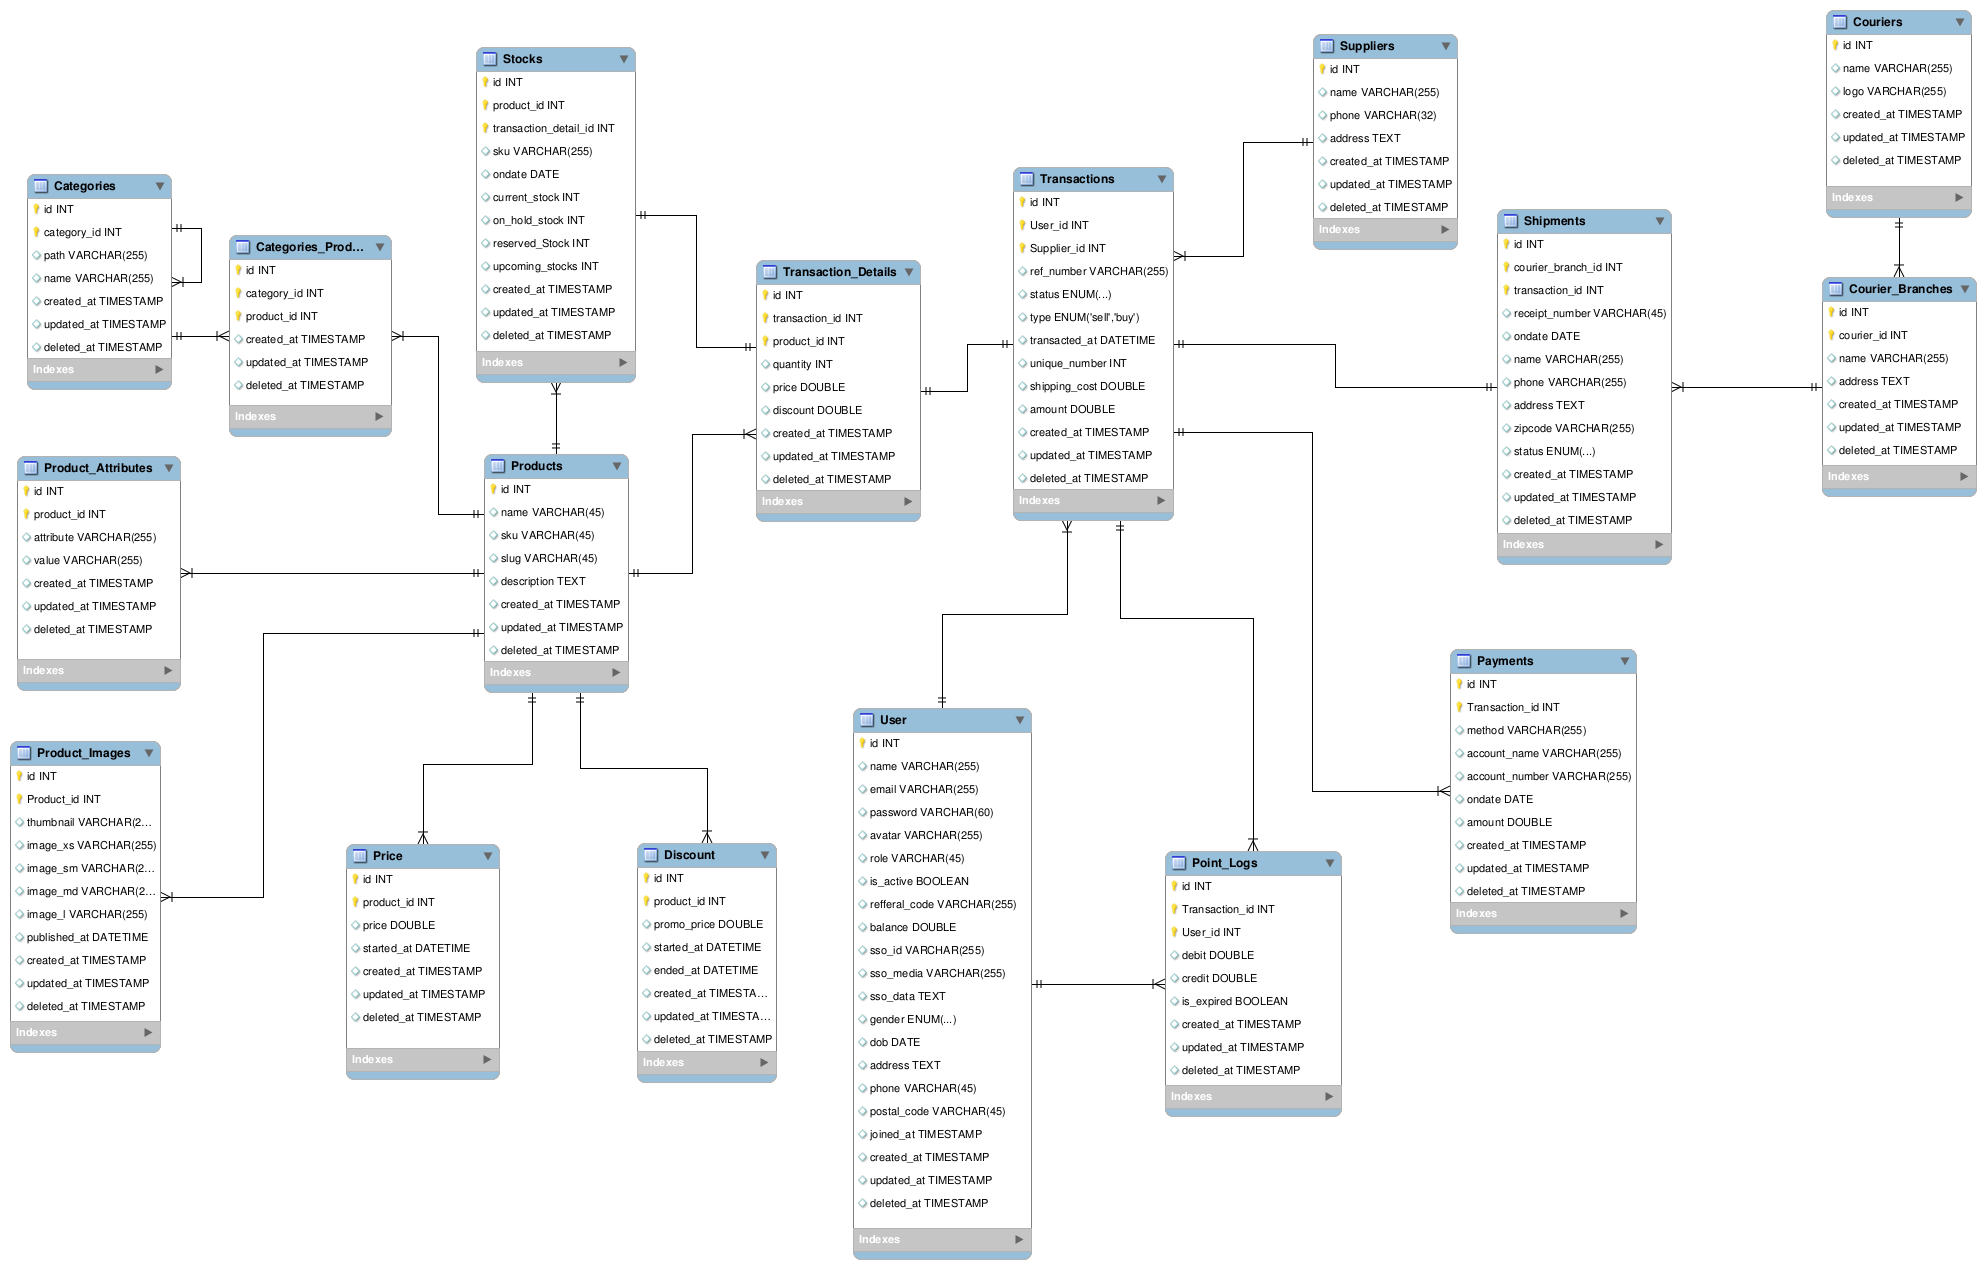
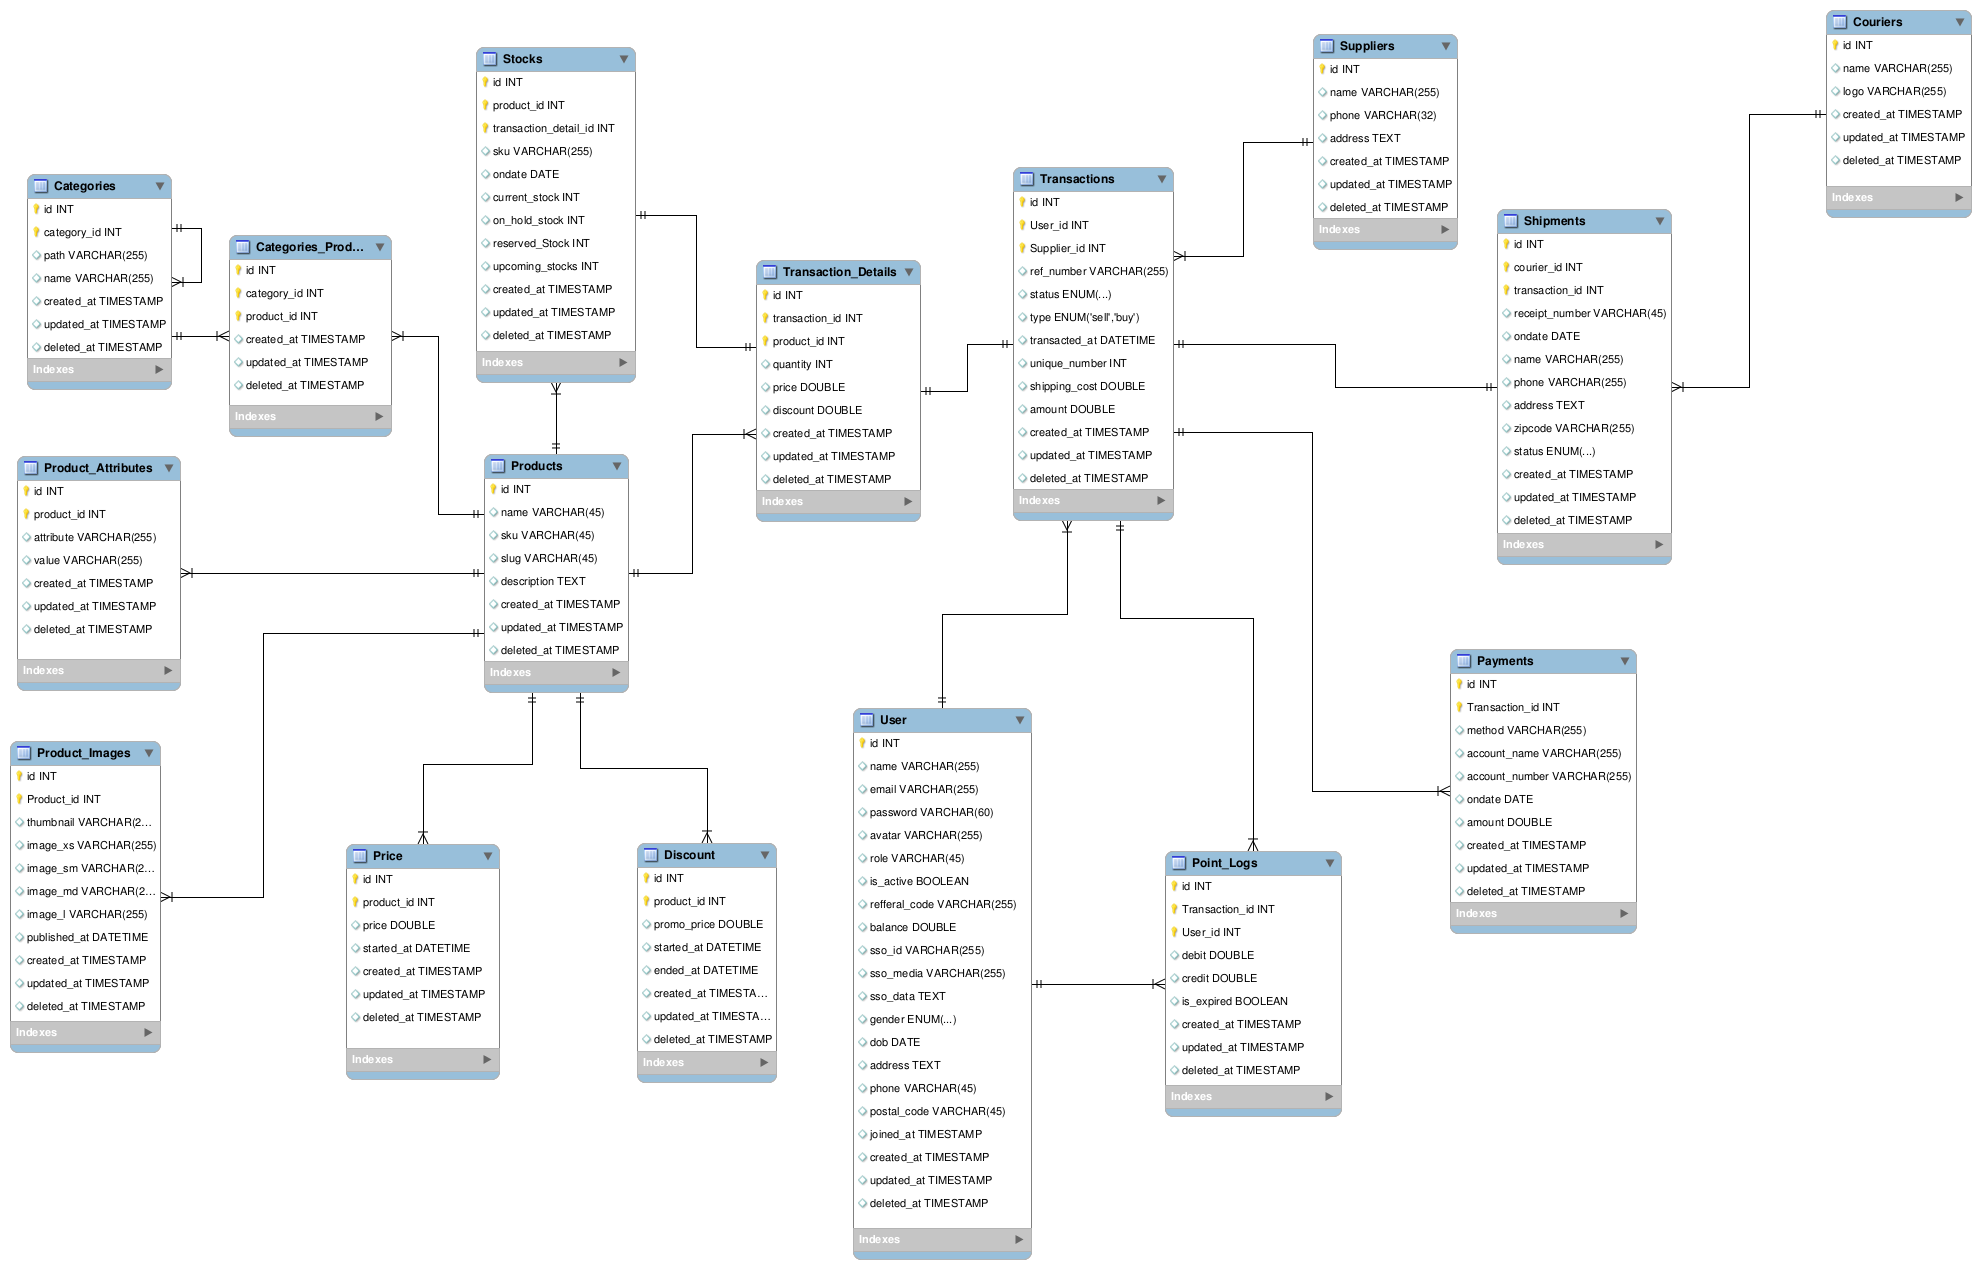
Remove courier branch in term of efficiency courier

diff --git a/app/Models/Traits/hasMany/HasShipmentsTrait.php b/app/Models/Traits/hasMany/HasShipmentsTrait.php
@@ -1,0 +1,34 @@
+<?php namespace App\Models\Traits\hasMany;
+
+trait HasShipmentsTrait 
+{
+
+	/**
+	 * boot
+	 *
+	 * @return void
+	 * @author 
+	 **/
+
+	function HasShipmentsTraitConstructor()
+	{
+		//
+	}
+
+	/* ------------------------------------------------------------------- RELATIONSHIP TO SERVICE -------------------------------------------------------------------*/
+
+	public function Shipments()
+	{
+		return $this->hasMany('App\Models\Shipment');
+	}
+
+	public function scopeHasShipments($query, $variable)
+	{
+		return $query->whereHas('shipments', function($q)use($variable){$q;});
+	}
+
+	public function scopeShipmentID($query, $variable)
+	{
+		return $query->whereHas('shipments', function($q)use($variable){$q->id($variable);});
+	}
+}

diff --git a/app/Models/Courier.php b/app/Models/Courier.php
@@ -16,7 +16,7 @@ class Courier extends Eloquent
 	 * @var string
 	 */
 
-	use \App\Models\Traits\belongsTo\HasCourierTrait;
+	use \App\Models\Traits\hasMany\HasShipmentsTrait;
 
 	/**
 	 * The database table used by the model.
@@ -36,6 +36,7 @@ class Courier extends Eloquent
 	protected $fillable				=	[
 											'name'							,
 											'logo_url'						,
+											'address'						,
 										];
 
 	/**
@@ -53,6 +54,7 @@ class Courier extends Eloquent
 	protected $rules				=	[
 											'name'							=> 'required|max:255',
 											'logo_url'						=> 'required|max:255|url',
+											'address'						=> 'required',
 										];
 
 	/**

diff --git a/database/factories/ModelFactory.php b/database/factories/ModelFactory.php
@@ -44,15 +44,6 @@ $factory->define(App\Models\Courier::class, function ($faker) use ($colors)
 	[
 		'name'							=> $faker->company.' '.$faker->companySuffix,
 		'logo_url' 						=> 'http://placehold.it/200x200/'.$colors[rand(0, count($colors)-1)].'/000000',
+		'address' 						=> $faker->address,
 	];
-});
-
-
-$factory->define(App\Models\CourierBranch::class, function (Faker\Generator $faker) {
-    return 
-    [
-		'courier_id' 				=> App\Models\Courier::all()->random()->id,
-		'name'						=> $faker->city,
-		'address'					=> $faker->address,
-    ];
 });

diff --git a/database/migrations/2015_06_19_034756_create_courier_table.php b/database/migrations/2015_06_19_034756_create_courier_table.php
@@ -16,6 +16,7 @@ class CreateCourierTable extends Migration
             $table->increments('id');
             $table->string('name', 255);
             $table->string('logo_url', 255);
+            $table->text('address');
             $table->timestamps();
             $table->softDeletes();
         });

diff --git a/app/Models/Shipment.php b/app/Models/Shipment.php
@@ -17,7 +17,7 @@ class Shipment extends Eloquent
 	 */
 
 	use \App\Models\Traits\belongsTo\HasTransactionTrait;
-	use \App\Models\Traits\belongsTo\HasCourierBranchTrait;
+	use \App\Models\Traits\belongsTo\HasCourierTrait;
 
 	/**
 	 * The database table used by the model.

diff --git a/database/seeds/DatabaseSeeder.php b/database/seeds/DatabaseSeeder.php
@@ -19,7 +19,6 @@ class DatabaseSeeder extends Seeder
         $this->call('UserTableSeeder');
         $this->call('SupplierTableSeeder');
         $this->call('CourierTableSeeder');
-        $this->call('CourierBranchTableSeeder');
 
         Model::reguard();
     }
